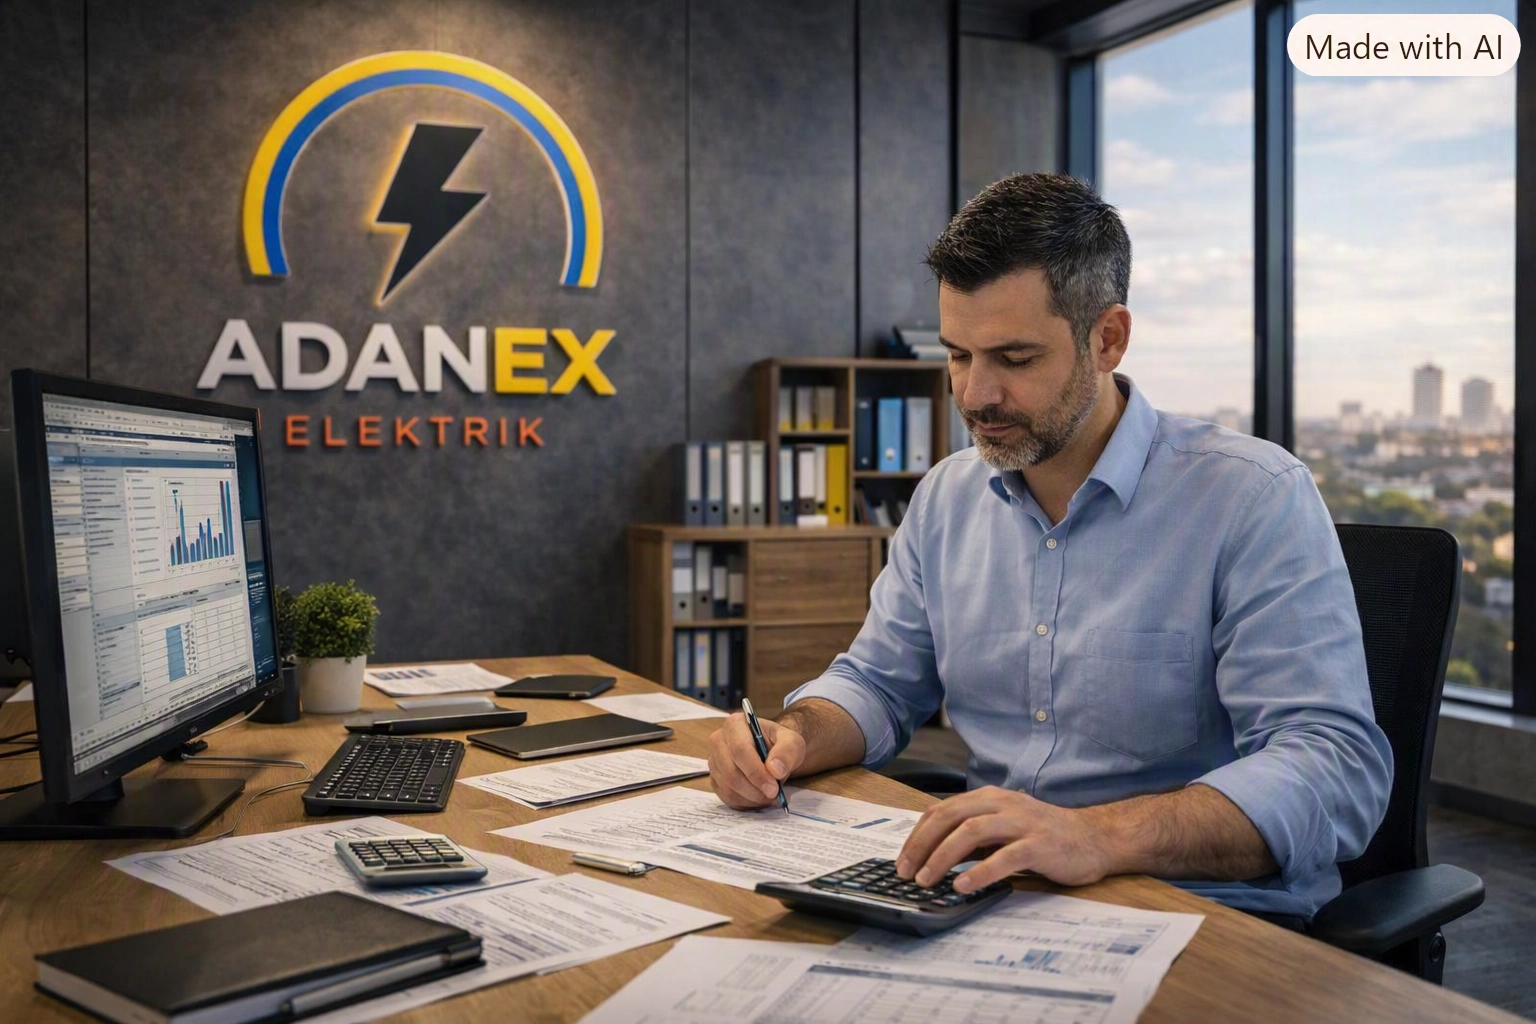
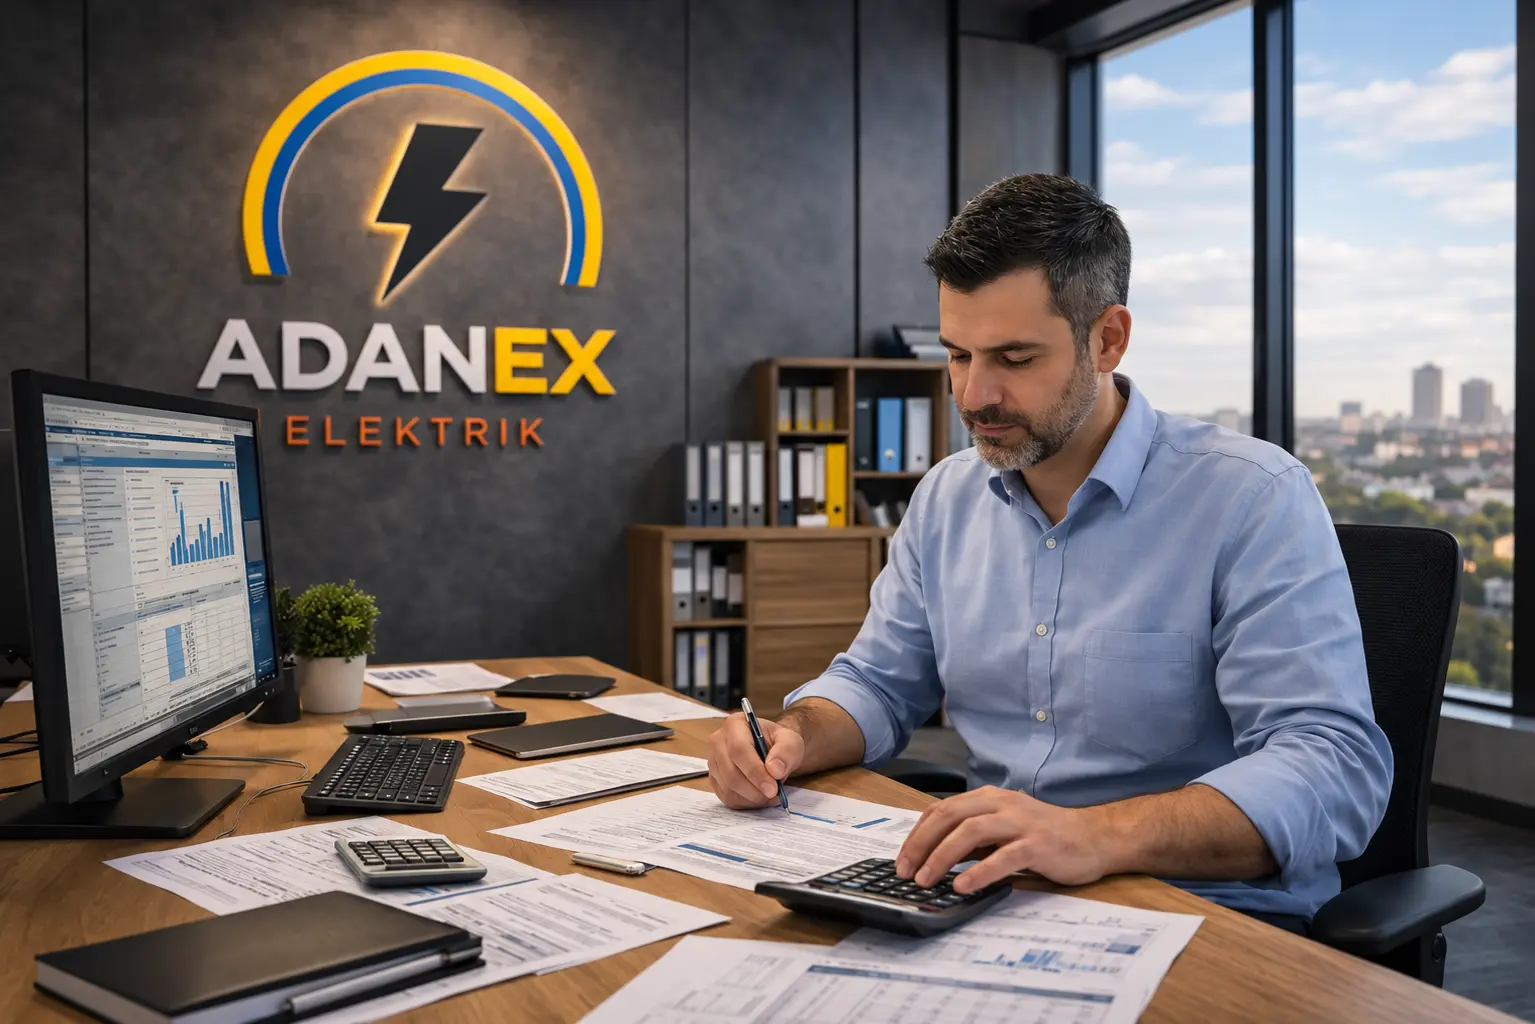
Header logosunu ve sayfa başlıklarını ortak sol çizgiye, sağ öğeleri içerik kenarına hizala
- Yan yatmış sayfa başlığının harf kenarı ve header logosu --page-title-inset çizgisinde buluşur
- Masaüstünde dil seçici, kaydırma işareti ve hizmetler hero görseli içeriğin sağ kenarına hizalanır
- Favicon olarak şirket logosu kullanılır, hizmetler hero görseli sıkıştırıldı

diff --git a/src/components/services/ServicesHero.module.css b/src/components/services/ServicesHero.module.css
@@ -80,6 +80,20 @@
   margin-inline-end: calc(var(--bleed) * -1);
 }
 
+/*
+ * Masaüstünde görsel taşmaz: paralelkenarın sağ üst köşesi panelin sağ kenarında, yani header'daki dil seçici
+ * ve alttaki kartlarla aynı çizgide biter. Sol kenar --space-md kadar sola kaymıştır.
+ * Eğim, yüksekliğin yarısı kadar yana açılır; yükseklik container sorgusu ile okunur.
+ */
+.figureDesktop {
+  margin-inline: calc(var(--space-md) * -1) 0;
+  container-type: size;
+}
+
+.figureDesktop .frame {
+  inset-inline-end: calc(50cqh * tan(var(--skew)) * -1);
+}
+
 /* Sağ uç ekranın dışında kalır, yatık sağ kenar ve köşeler görünmez. */
 .frame {
   position: absolute;
@@ -162,6 +176,8 @@
   isolation: isolate;
   border: 1px solid var(--hairline);
   --roll-hover-color: var(--color-black);
+  /* Kart yatırıldığında içerik bununla düz tutulur. Dar kolonda kart yatık değildir. */
+  --unskew: skewX(0deg);
 }
 
 .card::before {
@@ -187,6 +203,7 @@
   block-size: 100%;
   object-fit: cover;
   pointer-events: none;
+  transform: var(--unskew);
 }
 
 .card::after {
@@ -217,7 +234,7 @@
   object-fit: contain;
   pointer-events: none;
   opacity: 0;
-  transform: scale(0.85);
+  transform: var(--unskew) scale(0.85);
   transition:
     opacity calc(var(--duration-base) * 0.5) var(--ease-out),
     transform calc(var(--duration-base) * 0.5) var(--ease-out);
@@ -253,6 +270,7 @@
   inline-size: calc(var(--text-sv-card-number) * 0.8);
   block-size: calc(var(--text-sv-card-number) * 0.8);
   opacity: 0.6;
+  transform: var(--unskew);
   transition:
     transform var(--duration-base) var(--ease-out),
     opacity var(--duration-base) var(--ease-out);
@@ -335,26 +353,63 @@
  * Adın boyu kartın genişliğinden gelir, en uzun ad (Danışmanlık, Installation, yaklaşık 5,3 em) tek satıra sığar.
  */
 @media (min-width: 64rem), (orientation: landscape) and (min-width: 37.5rem) {
-  .cards {
-    grid-template-rows: none;
-    grid-template-columns: repeat(4, minmax(0, 1fr));
-    gap: var(--space-md);
-  }
-
-  .cardItem {
+  .stages {
     container-type: inline-size;
   }
 
-  /* Kısa ekranlarda üst ve alt iç boşluk daralır. */
+  /*
+   * Kartların yatık kenarları paraleldir, aralarında yalnızca --cards-gap kalır. Kartlar hücreyi tam doldurur;
+   * yalnızca ilk kartın sol alt ve son kartın sağ üst köşesi yana taştığı için satır iki yandan eğim payı kadar içeridedir.
+   */
+  .cards {
+    --cards-gap: var(--space-sm);
+    --cards-cell: calc((100cqi - var(--cards-gap) * 3) / (4 + tan(20deg)));
+
+    grid-template-rows: none;
+    grid-template-columns: repeat(4, minmax(0, 1fr));
+    gap: var(--cards-gap);
+    padding-inline: calc(var(--cards-cell) * tan(20deg) / 2);
+  }
+
+  /* Hücrenin iki ölçüsü de bilinir, kart genişliği doldurur, boyu ise kareyi geçmez. */
+  .cardItem {
+    container-type: size;
+    align-items: center;
+    justify-content: center;
+  }
+
+  /*
+   * Kart, üstteki görselle aynı eğimde yatık bir paralelkenardır; yer yettiğinde karedir, kısa ekranda boyu kısalır.
+   * Yazılar ve görseller ters yatırılarak düz kalır. Kısa ekranlarda üst ve alt iç boşluk daralır.
+   */
   .card {
+    --card-skew: -20deg;
+    --unskew: skewX(calc(var(--card-skew) * -1));
+
+    flex: none;
     grid-template-areas:
       'number arrow'
       'label label';
     grid-template-rows: auto minmax(0, 1fr);
     grid-template-columns: minmax(0, 1fr) auto;
     align-items: start;
-    min-block-size: calc(var(--touch-target) * 2);
+    inline-size: 100cqi;
+    block-size: min(100cqh, 100cqi);
+    min-block-size: 0;
     padding: min(var(--card-pad), 2.4svh) var(--card-pad);
+    border-radius: clamp(0.75rem, 1.4vw, 1.5rem);
+    transform: skewX(var(--card-skew));
+  }
+
+  /* Ters yatırılan görsel, yatık köşeleri de doldursun diye iki yandan eğim payı kadar geniştir. */
+  .cardImage {
+    inset-inline-start: calc(tan(20deg) * -50%);
+    inline-size: calc(100% * (1 + tan(20deg)));
+  }
+
+  .cardNumber,
+  .cardLabel {
+    transform: var(--unskew);
   }
 
   .cardLabel {
@@ -399,7 +454,7 @@
 
   .card:hover .cardLogo {
     opacity: 1;
-    transform: none;
+    transform: var(--unskew);
     transition-duration: var(--duration-base);
     transition-delay: calc(var(--duration-base) * 0.5);
   }
@@ -407,7 +462,7 @@
   .card:hover .arrow {
     color: var(--color-black);
     opacity: 1;
-    transform: translateY(0.25rem);
+    transform: var(--unskew) translateY(0.25rem);
   }
 }
 

diff --git a/src/components/layout/PageHero/PageHero.module.css b/src/components/layout/PageHero/PageHero.module.css
@@ -3,15 +3,22 @@
   background: var(--surface-bg);
 }
 
-/* Mobilde solda yan yatmış başlık, sağda sayfanın içeriği durur. */
+/*
+ * Mobilde solda yan yatmış başlık, sağda sayfanın içeriği durur.
+ * Başlığın büyük harf kenarı her sayfada --page-title-inset çizgisine oturur, header logosu da aynı çizgidedir.
+ * Harf kenarından önceki boş satır payı (--title-cap-start-em) kolondan düşülür, sağdaki boşluk değişmez.
+ */
 .inner {
   /* --title-em, başlık uzunluğudur ve PageHero tarafından ölçülür. */
   --page-title-size: min(calc((100svh - var(--header-height) * 2) / var(--title-em, 6)), 34vw);
+  --title-column: calc(
+    var(--page-title-size) * (1.2 - var(--title-cap-start-em, 0.19)) + var(--page-title-inset) - var(--gutter)
+  );
 
   position: relative;
   display: grid;
   grid-template-rows: repeat(2, 1fr);
-  grid-template-columns: auto minmax(0, 1fr);
+  grid-template-columns: var(--title-column) minmax(0, 1fr);
   min-block-size: 100svh;
   padding-block: var(--header-height) var(--hero-padding-end, var(--space-md));
   padding-inline: var(--gutter);
@@ -37,9 +44,10 @@
 /* Başlık aşağıdan yukarı okunur. Negatif boşluk, üstteki header payını dengeler ve kolonu tam ortalar. */
 .title {
   position: relative;
+  left: calc(var(--page-title-inset) - var(--gutter) - var(--page-title-size) * var(--title-cap-start-em, 0.19));
   grid-row: 1 / -1;
   align-self: center;
-  justify-self: center;
+  justify-self: start;
   /* Dikey yazımda margin-block-start sağ kenara denk gelir, bu yüzden fiziksel özellik kullanılır. */
   margin-top: calc((var(--header-height) - var(--hero-padding-end, var(--space-md))) * -1);
   font-family: var(--font-industrial);
@@ -54,10 +62,11 @@
   transform: rotate(180deg);
 }
 
-/* İlk kolon başlığın kalınlığı kadardır, kalan genişlik içeriğe kalır. */
+/* İlk kolon başlığın kalınlığı kadardır, sağında çizgiye kadar boşluk kalır; kalan genişlik içeriğe kalır. */
 @media (min-width: 37.5rem) {
   .inner {
     --page-title-size: min(calc((100svh - var(--header-height) * 2) / var(--title-em, 6)), 24vw);
+    --title-column: calc(var(--page-title-size) * (1.2 - var(--title-cap-start-em, 0.19)) + var(--space-md));
 
     grid-template-rows: none;
   }
@@ -67,11 +76,11 @@
   }
 
   .oneColumn {
-    grid-template-columns: calc(var(--page-title-size) * 1.2 + var(--space-md)) minmax(0, 1fr);
+    grid-template-columns: var(--title-column) minmax(0, 1fr);
   }
 
   .twoColumns {
-    grid-template-columns: calc(var(--page-title-size) * 1.2 + var(--space-md)) repeat(2, minmax(0, 1fr));
+    grid-template-columns: var(--title-column) repeat(2, minmax(0, 1fr));
   }
 
   .title {

diff --git a/src/components/layout/PageHero/PageHero.tsx b/src/components/layout/PageHero/PageHero.tsx
@@ -21,7 +21,7 @@ function measureTitle(element: HTMLElement, text: string) {
   const context = document.createElement('canvas').getContext('2d');
   if (!context) return null;
 
-  const { fontWeight, fontFamily } = getComputedStyle(element);
+  const { fontWeight, fontFamily, fontSize, lineHeight } = getComputedStyle(element);
   context.font = `${fontWeight} 100px ${fontFamily}`;
   // SplitText harfleri ayırdığı için ekrandaki metinde kerning yoktur.
   context.fontKerning = 'none';
@@ -30,11 +30,19 @@ function measureTitle(element: HTMLElement, text: string) {
   const startBearing = -actualBoundingBoxLeft;
   const endBearing = width - actualBoundingBoxRight;
 
+  // Başlık ters döndüğü için harflerin üstü solda kalır: satır kutusunun solundan büyük harf kenarına olan mesafe.
+  const capMetrics = context.measureText('H');
+  const lineHeightEm = parseFloat(lineHeight) / parseFloat(fontSize);
+  const contentEm = (capMetrics.fontBoundingBoxAscent + capMetrics.fontBoundingBoxDescent) / 100;
+  const capStartEm =
+    (lineHeightEm - contentEm) / 2 + (capMetrics.fontBoundingBoxAscent - capMetrics.actualBoundingBoxAscent) / 100;
+
   return {
     em: width / 100,
     inkEm: (actualBoundingBoxLeft + actualBoundingBoxRight) / 100,
     // Başlık aşağıdan yukarı okunduğu için bitiş boşluğu üstte, başlangıç boşluğu alttadır.
     inkOffsetEm: (endBearing - startBearing) / 200,
+    capStartEm: Number.isFinite(capStartEm) ? capStartEm : null,
   };
 }
 
@@ -59,6 +67,9 @@ export function PageHero({ title, columns = 1, className = '', ref, children }: 
       inner.style.setProperty('--title-em', String(measured.em * TITLE_FIT_MARGIN));
       inner.style.setProperty('--title-ink-em', String(measured.inkEm));
       inner.style.setProperty('--title-ink-offset-em', String(measured.inkOffsetEm));
+      if (measured.capStartEm !== null) {
+        inner.style.setProperty('--title-cap-start-em', String(measured.capStartEm));
+      }
     };
 
     applyFit();

diff --git a/src/components/about/AboutHero.tsx b/src/components/about/AboutHero.tsx
@@ -4,7 +4,7 @@ import { useInspectCursor } from '../ui/CustomCursor/useInspectCursor';
 import { gsap, MOTION, SplitText, useGSAP } from '../../animations/gsap';
 import { getPageIntroDelay } from '../../animations/pageIntro';
 import { PRODUCT_FAMILIES } from '../../content/about';
-import { useIsNavCollapsed, usePrefersReducedMotion } from '../../hooks/useDevice';
+import { useDevice, useIsNavCollapsed, usePrefersReducedMotion } from '../../hooks/useDevice';
 import { useSmoothScroll } from '../../hooks/useSmoothScroll';
 import { PageHero } from '../layout/PageHero/PageHero';
 import { Lightbox } from '../ui/Lightbox/Lightbox';
@@ -50,6 +50,7 @@ export function AboutHero() {
   const rootRef = useRef<HTMLElement>(null);
   const jump = useFamilyJump();
   const hasVisuals = !useIsNavCollapsed();
+  const isDesktop = useDevice() === 'desktop';
   const [openVisual, setOpenVisual] = useState<(typeof HERO_VISUALS)[number] | null>(null);
 
   // Slogan dil değişince yeniden bölünür. Ardından paragraf ve aileler sırayla aşağıdan yerine oturur.
@@ -139,7 +140,8 @@ export function AboutHero() {
         )}
       </div>
 
-      <ScrollCue className={hasVisuals ? `${styles.cue} ${styles.cueAligned}` : styles.cue} />
+      {/* Masaüstünde belirteç afişe değil, header'daki dil seçiciye hizalanır (ScrollCue içinde). */}
+      <ScrollCue className={hasVisuals && !isDesktop ? `${styles.cue} ${styles.cueAligned}` : styles.cue} />
 
       {openVisual && (
         <Lightbox src={openVisual.src} alt={t(`hero.visuals.${openVisual.key}`)} onClose={() => setOpenVisual(null)} />

diff --git a/src/components/ui/ScrollCue/ScrollCue.tsx b/src/components/ui/ScrollCue/ScrollCue.tsx
@@ -2,13 +2,15 @@ import { type ComponentProps, useRef } from 'react';
 import { useTranslation } from 'react-i18next';
 import { gsap, MOTION, useGSAP } from '../../../animations/gsap';
 import { getPageIntroDelay } from '../../../animations/pageIntro';
-import { usePrefersReducedMotion } from '../../../hooks/useDevice';
+import { useDevice, usePrefersReducedMotion } from '../../../hooks/useDevice';
 import styles from './ScrollCue.module.css';
 
 /** Hero'nun altındaki "kaydır" belirteci. Harfler sayaç silindiri gibi döner, yanlarından çizgi akar. */
 export function ScrollCue({ className = '', ...rest }: ComponentProps<'div'>) {
   const { t, i18n } = useTranslation();
   const prefersReducedMotion = usePrefersReducedMotion();
+  // Masaüstünde son harfin sağı, header'daki dil seçicinin sağıyla aynı çizgidedir.
+  const isDesktop = useDevice() === 'desktop';
   const rootRef = useRef<HTMLDivElement>(null);
 
   // Harf sayısı dile göre değiştiği için silindirler dil değişince yeniden kurulur.
@@ -40,7 +42,7 @@ export function ScrollCue({ className = '', ...rest }: ComponentProps<'div'>) {
   );
 
   return (
-    <div {...rest} ref={rootRef} className={`${styles.cue} ${className}`} aria-hidden="true">
+    <div {...rest} ref={rootRef} className={`${styles.cue} ${isDesktop ? styles.desktop : ''} ${className}`} aria-hidden="true">
       <span className={styles.inner}>
         <span key={i18n.language} className={styles.word}>
           {Array.from(t('scrollCue').toLocaleUpperCase(i18n.language)).map((letter, index) => (

diff --git a/src/components/services/ServicesHero.tsx b/src/components/services/ServicesHero.tsx
@@ -4,7 +4,7 @@ import { gsap, MOTION, SplitText, useGSAP } from '../../animations/gsap';
 import { getPageIntroDelay } from '../../animations/pageIntro';
 import { LOGO_FOR_TRANSITION } from '../../content/brand';
 import { formatStageNumber, SERVICE_HERO_IMAGE, SERVICE_STATIONS } from '../../content/services';
-import { useIsMobile, usePrefersReducedMotion } from '../../hooks/useDevice';
+import { useDevice, useIsMobile, usePrefersReducedMotion } from '../../hooks/useDevice';
 import { useSectionJump } from '../../hooks/useSectionJump';
 import { PageHero } from '../layout/PageHero/PageHero';
 import { RollText } from '../ui/RollText/RollText';
@@ -28,6 +28,8 @@ export function ServicesHero() {
   const prefersReducedMotion = usePrefersReducedMotion();
   // Telefonda kolon dar ve kısadır, görsel ve dalga sığmaz. Hiç kurulmadıkları için dosya inmez, tuval çalışmaz.
   const showImage = !useIsMobile();
+  // Masaüstünde görsel, header'daki dil seçici kadar sola kayar.
+  const isDesktop = useDevice() === 'desktop';
   const rootRef = useRef<HTMLElement>(null);
   const jump = useSectionJump();
 
@@ -81,7 +83,7 @@ export function ServicesHero() {
           </p>
 
           {showImage && (
-            <figure className={styles.figure}>
+            <figure className={`${styles.figure} ${isDesktop ? styles.figureDesktop : ''}`}>
               <span className={styles.frame} data-hero-frame>
                 <span className={styles.unskew}>
                   <img

diff --git a/src/components/layout/Header/Header.module.css b/src/components/layout/Header/Header.module.css
@@ -42,7 +42,8 @@
   align-items: center;
   block-size: var(--header-height);
   padding-block-start: env(safe-area-inset-top);
-  padding-inline-start: max(var(--gutter), env(safe-area-inset-left));
+  /* Logonun solu, iç sayfalardaki yan yatmış başlığın harf kenarıyla aynı çizgidedir; ana sayfada da yeri değişmez. */
+  padding-inline-start: max(var(--page-title-inset), env(safe-area-inset-left));
   pointer-events: none;
 }
 
@@ -79,6 +80,11 @@
 
 .chrome[data-device='tabletLandscape'] {
   --nav-gap: var(--space-sm);
+}
+
+/* Masaüstünde dil seçicinin sağı, sayfa içeriğinin sağ kenarıyla (kenar payı + --space-md) aynı çizgidedir. */
+.chrome[data-device='desktop'] .nav {
+  margin-inline-end: var(--space-md);
 }
 
 .link {

diff --git a/src/styles/tokens.css b/src/styles/tokens.css
@@ -123,6 +123,8 @@
   --space-md: 1.5rem;
   --space-lg: clamp(2rem, 1.5rem + 2vw, 4rem);
   --gutter: clamp(1rem, 2.4vw, 2.5rem);
+  /* Yan yatmış sayfa başlığının harf kenarı ve header logosunun solu bu çizgide buluşur (37.5rem üstü). */
+  --page-title-inset: calc(var(--gutter) + var(--space-md) / 2);
   --footer-gutter: max(var(--gutter), env(safe-area-inset-left), env(safe-area-inset-right));
   --header-height: clamp(4rem, 3.5rem + 1.5vw, 5.5rem);
   --logo-height: clamp(2.75rem, 2.4rem + 1vw, 4rem);

diff --git a/index.html b/index.html
@@ -2,7 +2,7 @@
 <html lang="tr">
   <head>
     <meta charset="UTF-8" />
-    <link rel="icon" type="image/svg+xml" href="/favicon.svg" />
+    <link rel="icon" type="image/png" href="/adanex-logo-koyu-arkaplan-icin.png" />
     <meta name="viewport" content="width=device-width, initial-scale=1.0, viewport-fit=cover" />
     <meta name="theme-color" content="#0f1011" />
     <title>Adanex</title>

diff --git a/src/components/ui/ScrollCue/ScrollCue.module.css b/src/components/ui/ScrollCue/ScrollCue.module.css
@@ -16,6 +16,11 @@
   }
 }
 
+/* Masaüstünde header'daki dil seçici gibi sayfa içeriğinin sağ kenarında (kenar payı + --space-md) biter. */
+.cue.desktop {
+  padding-inline-end: calc(var(--gutter) + var(--space-md));
+}
+
 .inner {
   display: flex;
   flex-direction: column;
